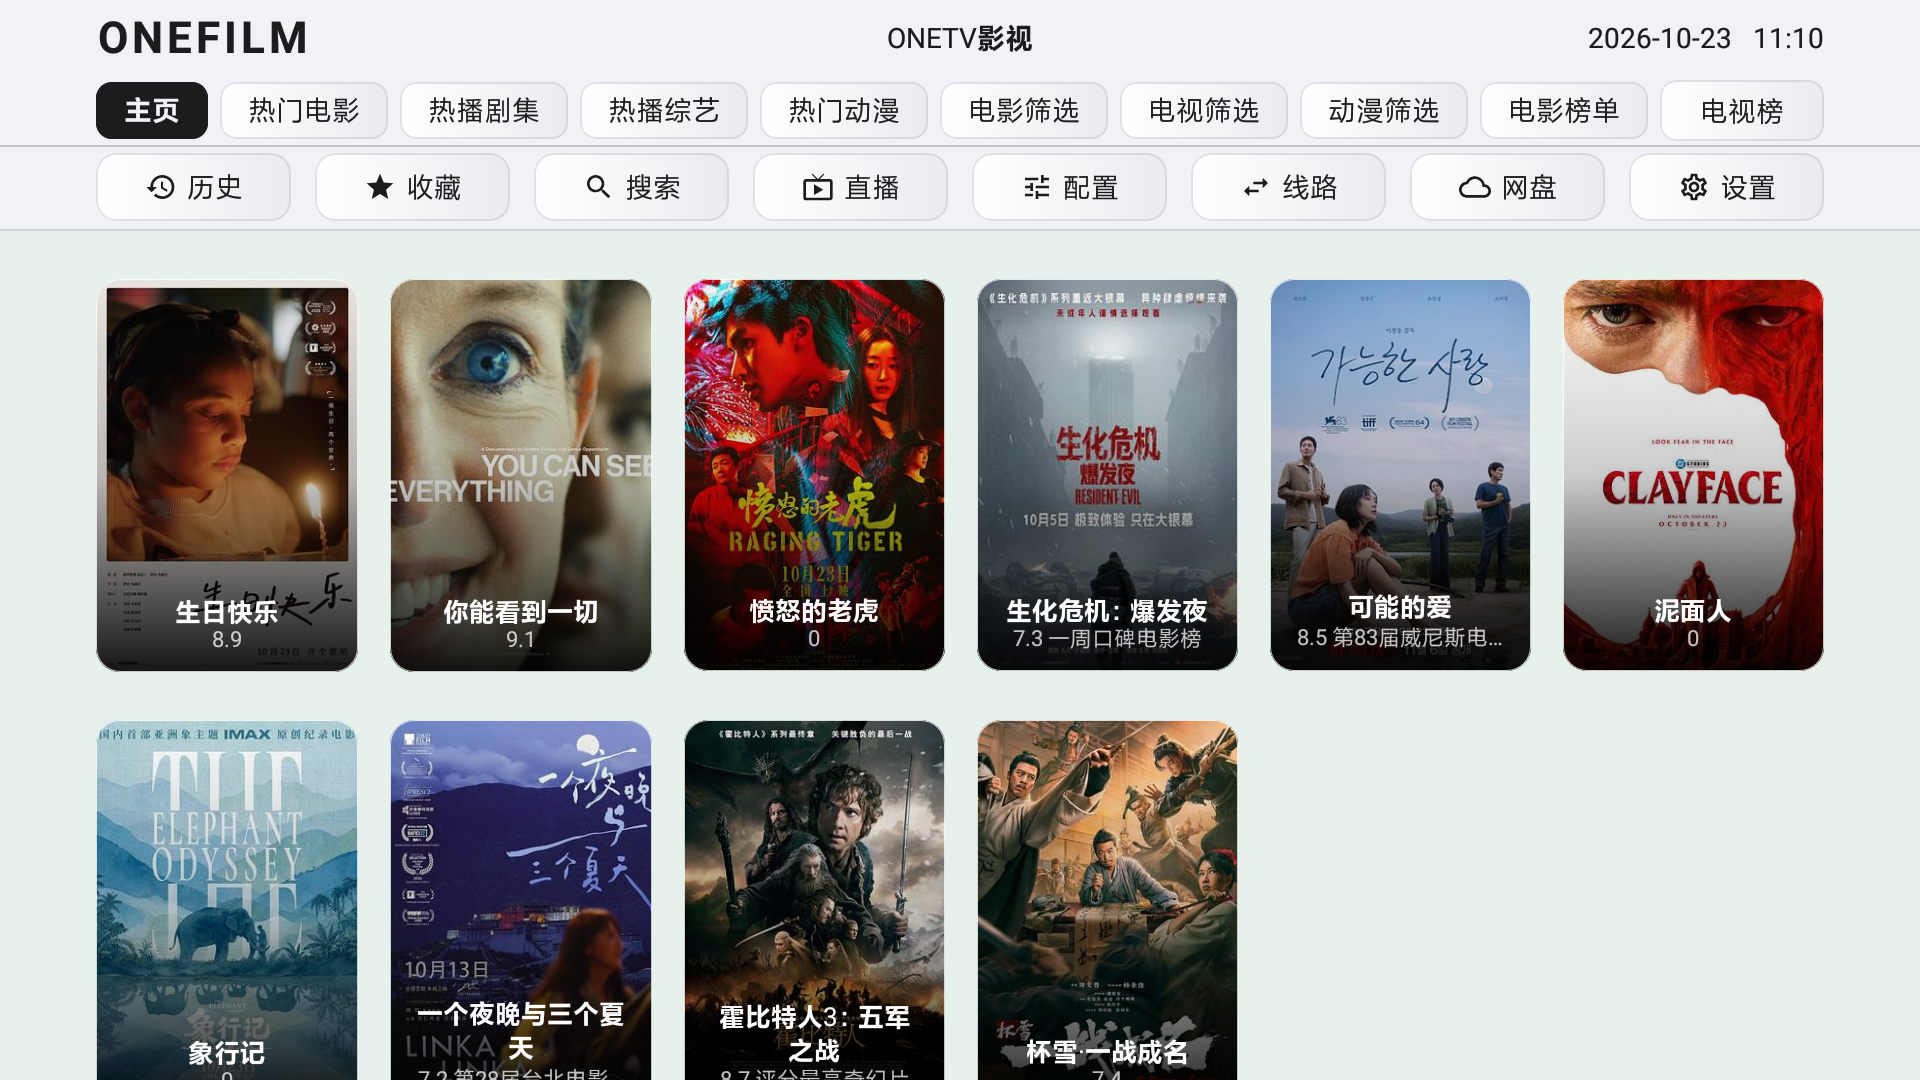
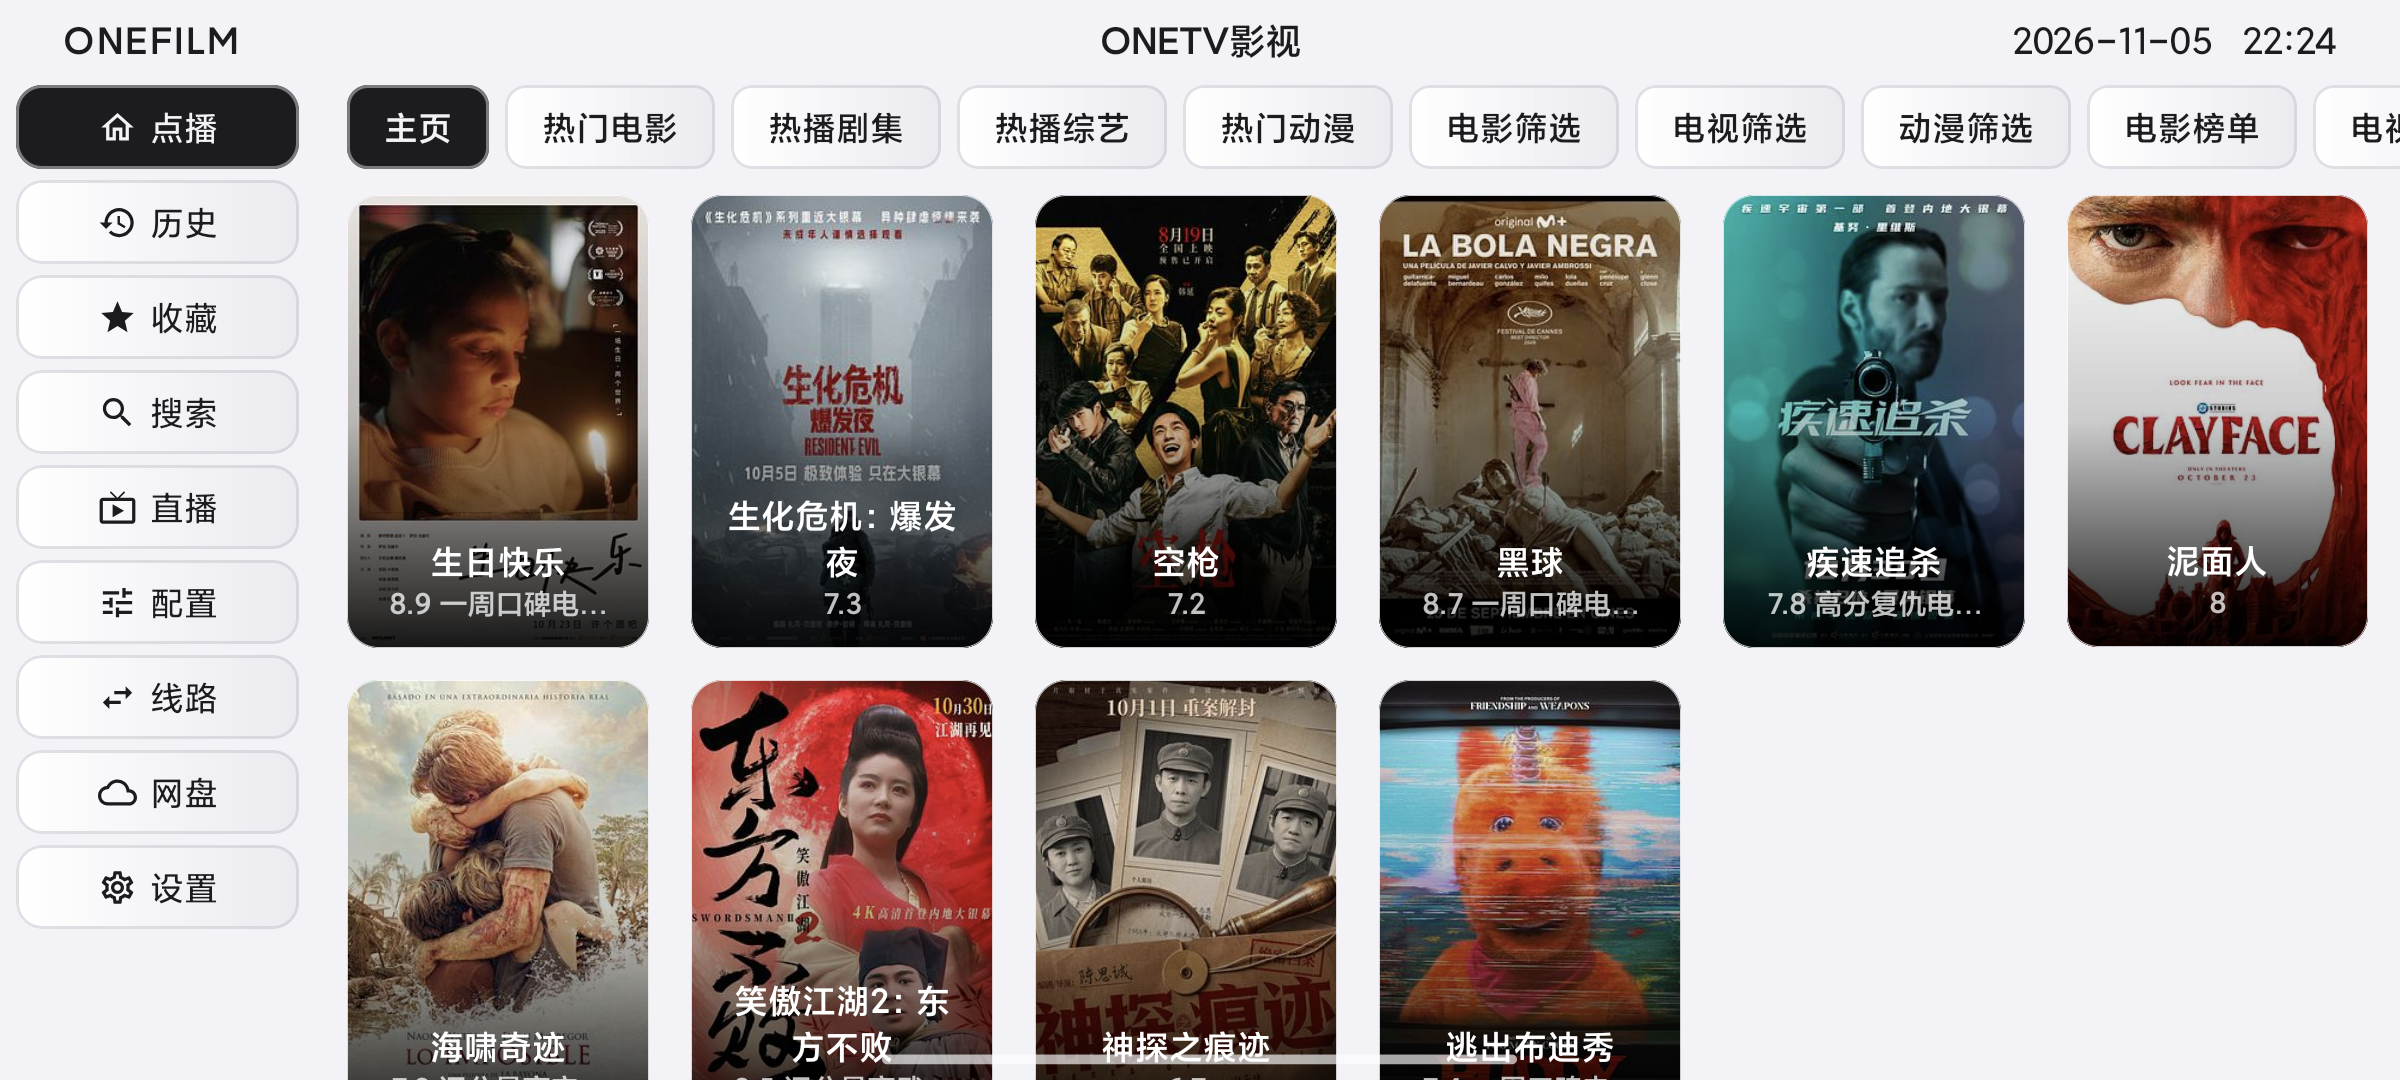
版本升级到 0.1.20（versionCode 21）：五语言支持与截图更新
README 增补五种界面语言说明并替换重构后的首页、设置面板截图；新增 0.1.20 更新说明；修复繁体中文下「配置」与「设置」重复显示为「設定」的问题。

diff --git a/README.md b/README.md
@@ -16,6 +16,7 @@
 - **好看，也好用**：简洁明亮的界面、流畅的卡片动效、没有多余打扰，打开就能看。
 - **看得舒服**：支持字幕、音轨、画面比例、倍速、弹幕和多种播放设置。
 - **下一次接着看**：收藏、观看历史和续播记录都在，换集、换线路不用重新找。
+- **五种语言，随手切换**：简体中文、繁體中文、English、Tiếng Việt、ไทย，设置里一键切换。
 
 ## 它能做什么
 
@@ -42,6 +43,10 @@
 ### 个性化你的电视
 
 主题、壁纸、接口和播放偏好都可以按自己的习惯调整。简洁、明亮、暗黑，喜欢哪种就用哪种。
+
+### 五种界面语言
+
+菜单、设置、播放器控制、网盘与提示信息均已支持 **简体中文、繁體中文、English、Tiếng Việt、ไทย**。在“设置 → 语言”中切换后立即生效，TV 端与手机端使用同一套文案；切换语言不会影响接口配置、收藏和观看历史。
 
 ## 适合这些场景
 
